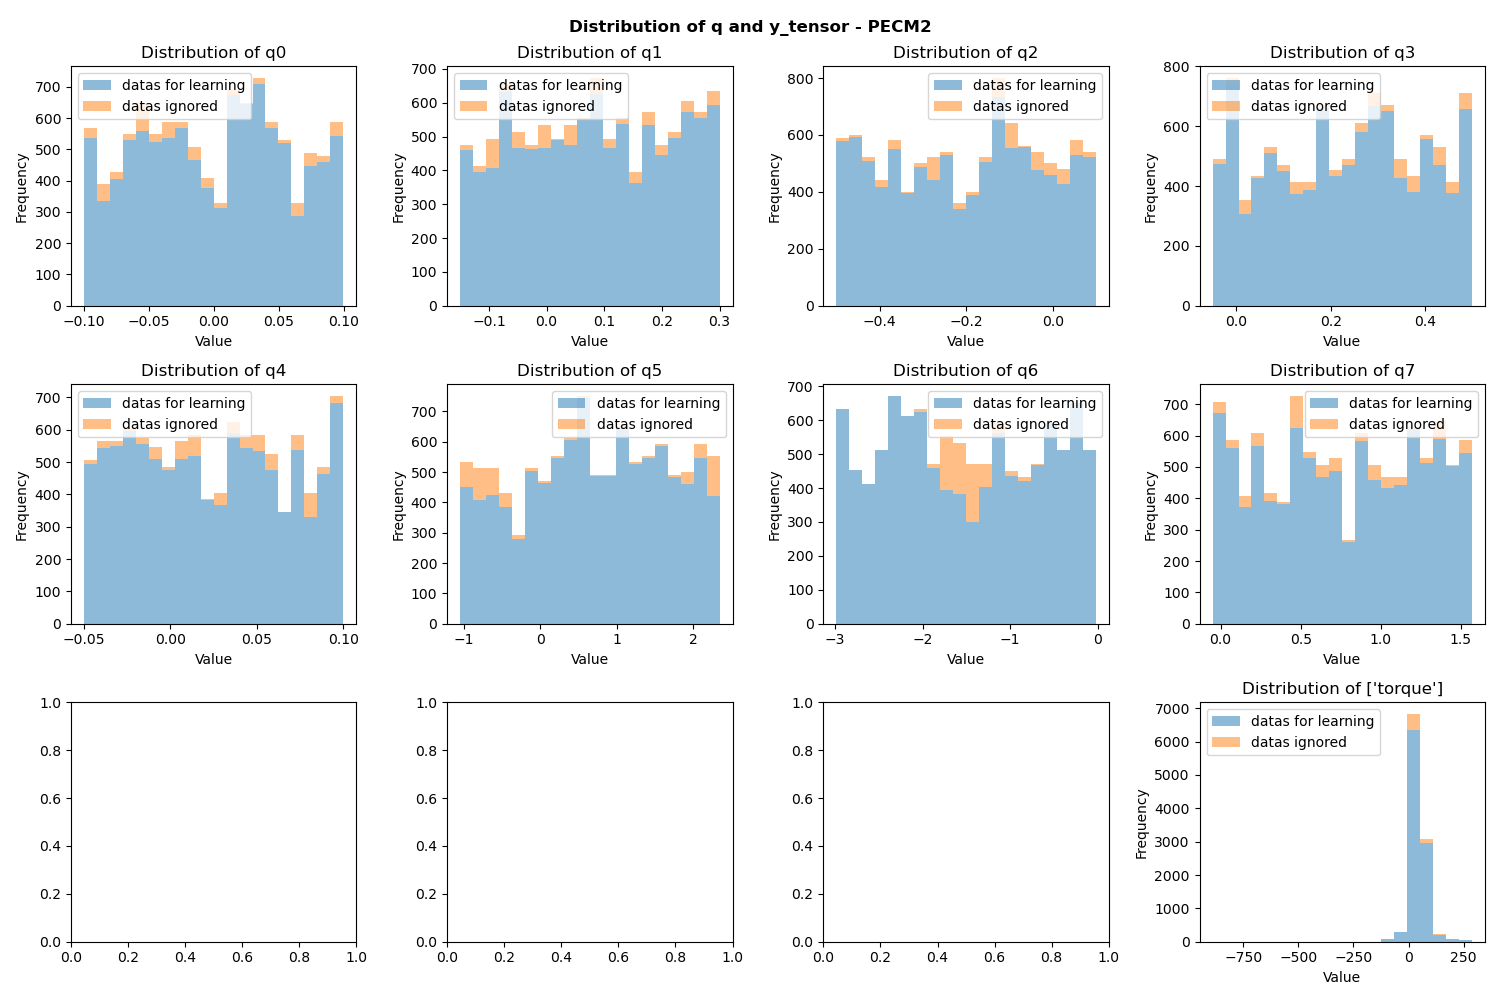
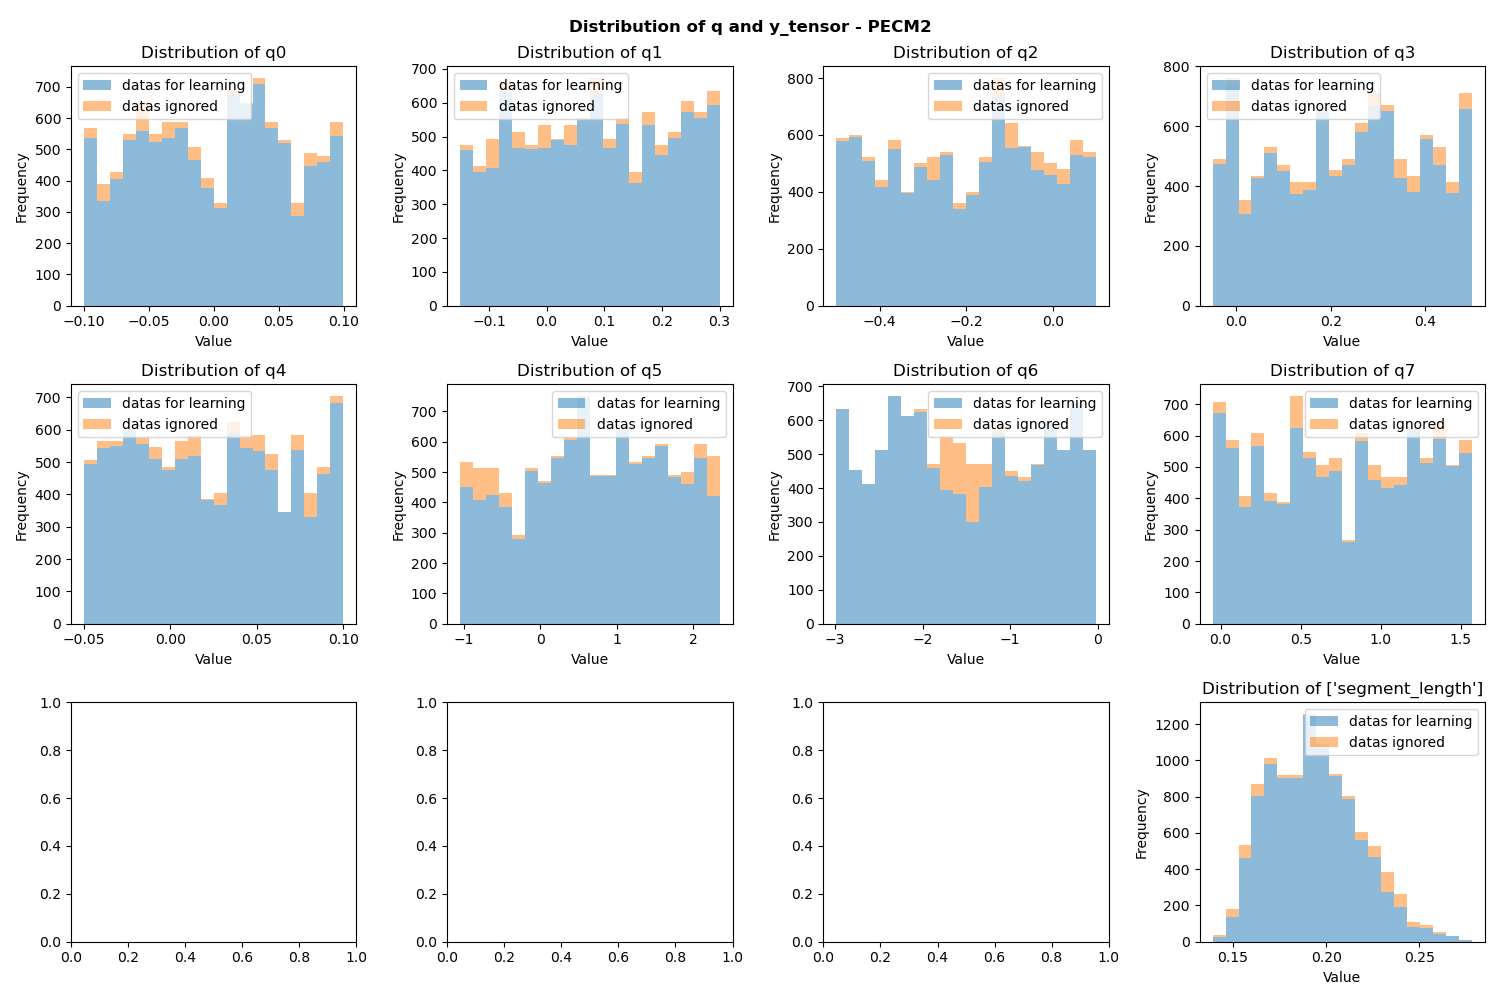
plus de commentaires

Changed region(s): [[0.7667, 0.682, 0.9813, 0.961]]

diff --git a/neural_networks/data_generation_ddl.py b/neural_networks/data_generation_ddl.py
@@ -7,11 +7,53 @@ from neural_networks.file_directory_operations import create_directory, create_a
 import copy
 import random
 from wrapping.muscles_length_jacobian import compute_dlmt_dq, plot_length_jacobian
-from wrapping.muscle_forces_and_torque import compute_fm, compute_torque, compute_fm_muscle_index
+from wrapping.muscle_forces_and_torque import compute_fm, compute_torque
 import os
 from neural_networks.other import compute_row_col, plot_mvt_discontinuities_in_red
 from neural_networks.ExcelBatchWriterWithNoise import ExcelBatchWriterWithNoise
 import pandas as pd
+
+def get_lines_to_remove(qs, segment_lengths, datas_ignored, f_sup_limits, num_points, plot_discontinuities):
+    """
+    Determine which data points to remove based on discontinuities, ignored data, and errors.
+
+    Args:
+        qs (list): List of data points to check for discontinuities.
+        segment_lengths (list): Lengths of segments for finding discontinuities.
+        datas_ignored (list): Boolean list indicating which data points are ignored.
+        f_sup_limits (list): Boolean list indicating limits where errors occur.
+        num_points (int): Total number of data points.
+        plot_discontinuities (bool): Flag to plot discontinuities for visualization.
+
+    Returns:
+        list: List of indices to be removed.
+    """
+    
+    # Initialize the list to store indices to be removed
+    to_remove = []
+    
+    # Verify if data is correct and find discontinuities
+    discontinuities = find_discontinuity(qs, segment_lengths, plot_discontinuities=plot_discontinuities)
+    for discontinuity in discontinuities:
+        min_idx, max_idx = data_to_remove_part(discontinuity, qs, num_points, range_size=3)
+        to_remove.extend(range(min_idx, max_idx + 1))
+    
+    # Find indices with errors in ignored data
+    positions = [n for n, ignored in enumerate(datas_ignored) if ignored]
+    if positions:
+        min_idx, max_idx = find_discontinuities_from_error_wrapping_range(positions, num_points, range_size=3)
+        to_remove.extend(range(min_idx, max_idx + 1))
+    
+    # Find indices with errors in f_sup_limits
+    positions_f_sup_limit = [n for n, ignored in enumerate(f_sup_limits) if ignored]
+    if positions_f_sup_limit:
+        min_idx, max_idx = find_discontinuities_from_error_wrapping_range(positions_f_sup_limit, num_points, range_size=0)
+        to_remove.extend(range(min_idx, max_idx + 1))
+    
+    # Remove duplicate indices and sort in descending order
+    to_remove = sorted(set(to_remove), reverse=True)
+    
+    return to_remove
 
 def plot_one_q_variation(muscle_selected, cylinders, model, q_fixed, i, filename, num_points = 100, plot_all = False, plot_limit = False, plot_cadran=False) :
    
@@ -67,8 +109,8 @@ def plot_one_q_variation(muscle_selected, cylinders, model, q_fixed, i, filename
       qs.append(qi)
       segment_lengths.append(segment_length)
       dlmt_dq = compute_dlmt_dq(model, q, cylinders, muscle_index, delta_qi = 1e-8)
-      muscle_force = compute_fm_muscle_index(model, muscle_index, q, qdot, alpha)
-      torque, _ = compute_torque(dlmt_dq, muscle_force)
+      muscle_force = compute_fm(model, q, qdot, alpha)[muscle_index]
+      torque, _ = compute_torque(dlmt_dq, muscle_force) 
       
       # add line
       writer.add_line(muscle_index, q, qdot, alpha, origin_muscle, insertion_muscle, segment_length, copy.deepcopy(dlmt_dq), muscle_force, torque)
@@ -84,7 +126,7 @@ def plot_one_q_variation(muscle_selected, cylinders, model, q_fixed, i, filename
    create_and_save_plot(f"{directory}", "one_q_variation.png")
    plt.show()
    
-   find_discontinuty(qs, segment_lengths, plot_discontinuities=True)
+   find_discontinuity(qs, segment_lengths, plot_discontinuities=True)
    
    writer.close()
    return None
@@ -151,7 +193,7 @@ def create_all_q_variation_files(muscle_selected, cylinders, model, q_fixed, fil
             qs.append(qi)
             segment_lengths.append(segment_length)
             dlmt_dq = compute_dlmt_dq(model, q, cylinders, muscle_index, delta_qi = 1e-8)
-            muscle_force = compute_fm_muscle_index(model, muscle_index, q, qdot, alpha)
+            muscle_force = compute_fm(model, q, qdot, alpha)[muscle_index]
             torque, _ = compute_torque(dlmt_dq, muscle_force)
             
             # add line
@@ -197,7 +239,7 @@ def plot_all_q_variation(model, q_fixed, y_label, filename="", file_path="") :
          qs.append(df.iloc[1:, q_index + 1].values)
          y.append(df.loc[1:, y_label].values)
          
-         discontinuities = find_discontinuty(qs[0], y[0], plot_discontinuities=False)
+         discontinuities = find_discontinuity(qs[0], y[0], plot_discontinuities=False)
          
          row = q_index // 3
          col = q_index % 3
@@ -256,14 +298,14 @@ def data_for_learning_without_discontinuites_ddl(muscle_selected, cylinders, mod
    min_vals_q = [row[0] for row in q_ranges]
    max_vals_q = [row[1] for row in q_ranges] 
 
-   num_line = writer.get_num_line()
+   num_line = writer.get_num_line() 
    while num_line < dataset_size : 
 
       # Generate a random q 
       q_ref = np.random.uniform(low=min_vals_q, high=max_vals_q)
-      
       i = random.randint(0, model.nbQ() - 1)
       
+      # to verify errors and dicontinuities
       qs = []
       segment_lengths = []
       datas_ignored = []
@@ -288,7 +330,7 @@ def data_for_learning_without_discontinuites_ddl(muscle_selected, cylinders, mod
          segment_length, data_ignored = compute_segment_length(model, cylinders, q, origin_muscle, insertion_muscle, 
                                                                plot_cylinder_3D, plot_cadran)  
          dlmt_dq = compute_dlmt_dq(model, q, cylinders, muscle_index, delta_qi = 1e-8)
-         muscle_force = compute_fm_muscle_index(model, muscle_index, q, qdot, alpha)
+         muscle_force = compute_fm(model, q, qdot, alpha)[muscle_index]
          torque, f_sup_limit = compute_torque(dlmt_dq, muscle_force)
          
          # keep informations to verify after if datas are correct
@@ -303,25 +345,9 @@ def data_for_learning_without_discontinuites_ddl(muscle_selected, cylinders, mod
       
       # Verify if datas are correct, no discontinuties, no errors
       # Find indexes with discontinuties
-      discontinuities = find_discontinuty(qs, segment_lengths, plot_discontinuities = plot_discontinuities)
-      for discontinuity in discontinuities : 
-         min, max = data_to_remove_part(discontinuity, qs, num_points, 3)
-         to_remove.extend(range(min, max + 1))
-      # Find error wrapping
-      positions = [n for n, ignored in enumerate(datas_ignored) if ignored]
-      if len(positions) != 0 : 
-         min, max = find_discontinuities_from_error_wrapping_range(positions, num_points, range = 3)
-         to_remove.extend(range(min, max + 1))
-      # Find error f_sup_limit 
-      positions_f_sup_limit = [n for n, ignored in enumerate(f_sup_limits) if ignored]
-      if len(positions_f_sup_limit) != 0 : 
-         min, max = find_discontinuities_from_error_wrapping_range(positions_f_sup_limit, num_points, range = 0)
-         to_remove.extend(range(min, max + 1))
+      to_remove = get_lines_to_remove(qs, segment_lengths, datas_ignored, f_sup_limits, num_points, plot_discontinuities)
       
-      # Sort to keep only one occurancy of each indexes
-      to_remove = sorted(set(to_remove), reverse=True)
-      
-      if len(to_remove) != 0 and plot_graph : 
+      if plot_graph and len(to_remove) != 0 : 
          # To check points removed (in red)
          plot_mvt_discontinuities_in_red(i, qs, segment_lengths, to_remove)
       
@@ -409,3 +435,5 @@ def data_for_learning_with_noise(model, excel_file_path, dataset_size_noise, bat
    writer = ExcelBatchWriterWithNoise(f"{excel_file_path.replace(".xlsx", "")}_with_noise.xlsx", q_ranges_names_with_dofs,
                                       batch_size, noise_std_dev)
    writer.augment_data_with_noise_batch(dataset_size_noise)
+
+

diff --git a/run/muscle_geometry.py b/run/muscle_geometry.py
@@ -95,8 +95,8 @@ q_fixed = np.array([0.0 for k in range (10)])
 
 # Generate datas : 
 #----------------
-data_generation_muscles(muscles_selected, cylinders, model_biorbd, 100, 0, "hyterg", num_points = 20, 
-                        plot_cylinder_3D=True, plot_discontinuities = True, plot_cadran = True, plot_graph=True)
+# data_generation_muscles(muscles_selected, cylinders, model_biorbd, 100, 0, "hyterg", num_points = 20, 
+#                         plot_cylinder_3D=True, plot_discontinuities = True, plot_cadran = True, plot_graph=True)
 
    
 # -----------------------------------------------------------------
@@ -129,9 +129,9 @@ cylinder_2 = Cylinder.from_points(1,-1, c21, c22)
 # exit(0)
 
 # # pour voir pyorerun
-model_path = "/home/lim/Documents/kloe/shoulder/run/models/Wu_DeGroote.bioMod"
-animation = LiveModelAnimation(model_path, with_q_charts=True)
-animation.rerun()
+# model_path = "/home/lim/Documents/kloe/shoulder/run/models/Wu_DeGroote.bioMod"
+# animation = LiveModelAnimation(model_path, with_q_charts=True)
+# animation.rerun()
 
 # -----------------------------------------------------------------
 
@@ -208,9 +208,9 @@ print(Hyperparameter_essai1)
 
 # one model per muscle !
 
-main_superised_learning(Hyperparameter_essai1, model_biorbd.nbQ(), num_datas_for_dataset, folder_name="data_generation_all", 
-                        muscle_name = "PECM2", retrain=False, file_path=Hyperparameter_essai1.model_name, with_noise = False, 
-                        plot_preparation=True, plot=True, save=True) 
+# main_superised_learning(Hyperparameter_essai1, model_biorbd.nbQ(), num_datas_for_dataset, folder_name="data_generation_all", 
+#                         muscle_name = "PECM2", retrain=False, file_path=Hyperparameter_essai1.model_name, with_noise = False, 
+#                         plot_preparation=True, plot=True, save=True) 
 
 # list_simulation, best_hyperparameters_loss \
 # = find_best_hyperparameters(Hyperparameter_essai1, model_biorbd.nbQ(), num_datas_for_dataset, "data_generation_datas_with_tau", 
@@ -219,10 +219,9 @@ main_superised_learning(Hyperparameter_essai1, model_biorbd.nbQ(), num_datas_for
 # plot_results_try_hyperparams("data_generation_datas_with_tau/PECM2/_Model/dlmt_dq_64_1c_all",
 #                                  "execution_time_train", "val_loss")
 
-# plot_results_try_hyperparams_comparaison(["data_generation_datas_with_tau/PECM2/_Model/train_torque_all_1c", 
-#                                           "data_generation_datas_with_tau/PECM2/_Model/train_torque_all_2c", 
-#                                           "data_generation_datas_with_tau/PECM2/_Model/train_torque_all_3c"], 
-#                                          "execution_time", "val_loss", "data_generation_datas_with_tau/PECM2/_Model")
+plot_results_try_hyperparams_comparaison(["data_generation_datas_with_tau/PECM2/_Model/dlmt_dq_64_1c", 
+                                          "data_generation_datas_with_tau/PECM2/_Model/dlmt_dq_64_2c"], 
+                                         "execution_time_use_saved_model", "val_loss", "data_generation_datas_with_tau/PECM2/_Model")
 
 # plot_results_try_hyperparams_comparaison(["data_generation_datas_with_tau/PECM2/_Model/train_torque_2c_64", 
 #                                           "data_generation_datas_with_tau/PECM2/_Model/train_torque_2c_64_2"], 

diff --git a/wrapping/algorithm.py b/wrapping/algorithm.py
@@ -4,7 +4,7 @@ from wrapping.step_3 import determine_if_tangent_points_inactive_single_cylinder
 # from wrapping.step_4 import segment_length_single_cylinder
 from wrapping.plot_cylinder import plot_double_cylinder_obstacle
 import numpy as np
-from wrapping.paspropre import determine_if_needed_change_side
+from wrapping.cadran import determine_if_needed_change_side
 from wrapping.plot_cylinder import plot_cadran_double_cylinder, plot_cadran_single_cylinder
 
 
@@ -113,14 +113,15 @@ def double_cylinder_obstacle_set_algorithm(P, S, Cylinder_U, Cylinder_V, plot_ca
    # ------
    # Step 2
    # ------
-   
    Q, G, H, T = find_tangent_points_iterative_method(P, S, P_U_cylinder_frame,P_V_cylinder_frame, S_U_cylinder_frame, S_V_cylinder_frame, r_V, r_U,  Cylinder_U.matrix, Cylinder_V.matrix)
    
    H_T_inactive = determine_if_tangent_points_inactive_single_cylinder(H, T, r_V)
 
    # if H_T_inactive and determine_if_needed_change_side(S_V_cylinder_frame, np.array([0.0246330366, -0.0069265376, -0.0000168612])): 
    if H_T_inactive and determine_if_needed_change_side(S_V_cylinder_frame, np.array([0.0179188682, -0.0181428819, 0.02])) == True: 
-      print("yop")
+      # If there is no wrapping on the second cylinder
+      # but there should be, switch sides and try again.
+      # BIG WARNING: The point selected for the cadran is arbitrary! It cannot be generalized.
       Cylinder_V.change_side()
       r_V = Cylinder_V.radius * Cylinder_V.side
       Q, G, H, T = find_tangent_points_iterative_method(P, S, P_U_cylinder_frame,P_V_cylinder_frame, S_U_cylinder_frame, S_V_cylinder_frame, r_V, r_U,  Cylinder_U.matrix, Cylinder_V.matrix)
@@ -159,7 +160,7 @@ def double_cylinder_obstacle_set_algorithm(P, S, Cylinder_U, Cylinder_V, plot_ca
    if H_T_inactive==True :
       Q, G = find_tangent_points(P_U_cylinder_frame, S_U_cylinder_frame, r_U)
       Q_G_inactive = determine_if_tangent_points_inactive_single_cylinder(Q, G, r_U)
-      # security to avoid bug in step 4, don't worry, this data will be ignored because of tangent point in the cylinder
+      # security to avoid bug in step 4, don't worry, this data will be ignored because of tangent point inside the cylinder
       if np.isnan(Q[-1]) or np.isnan(G[-1]) : 
          Q[-1] = 0.0
          G[-1] = 0.0
@@ -170,7 +171,7 @@ def double_cylinder_obstacle_set_algorithm(P, S, Cylinder_U, Cylinder_V, plot_ca
    elif Q_G_inactive==True :
       H, T = find_tangent_points(P_V_cylinder_frame, S_V_cylinder_frame, r_V)
       H_T_inactive = determine_if_tangent_points_inactive_single_cylinder(H, T, r_V)
-      # security to avoid bug in step 4, don't worry, this data will be ignored because of tangent point in the cylinder
+      # security to avoid bug in step 4, don't worry, this data will be ignored because of tangent point inside the cylinder
       if np.isnan(Q[-1]) or np.isnan(G[-1]) : 
          Q[-1] = 0.0
          G[-1] = 0.0

diff --git a/wrapping/step_2.py b/wrapping/step_2.py
@@ -128,6 +128,14 @@ def point_tangent_on_surface_cylinder(p1, p2, p3, p4, radius_U, radius_V, epsilo
 def find_tangent_points_iterative_method(P, S, P_U_cylinder_frame,P_V_cylinder_frame, S_U_cylinder_frame, S_V_cylinder_frame, r_V, r_U, matrix_U, matrix_V) :
 
   """Compute xyz coordinates of Q, G, H and T using iterative method
+  
+  This is a correction to the original method by Garner (2010). 
+  The original method aims to find the coordinates of the tangent point to achieve the smallest possible distance GH. 
+  However, in some cases, this approach does not always return the smallest value for lmt.
+  Because "the smallest possible distance GH" ==X==> "the smallest possible distance lmt"
+
+  Now, the iteration stops if NaN values are detected (indicating that no wrapping is needed or possible) 
+  and if lmt starts to increase instead of decreasing.
 
   Args
   - P_U_cylinder_frame : array 3*1 position of the first point in U cylinder frame
@@ -150,7 +158,7 @@ def find_tangent_points_iterative_method(P, S, P_U_cylinder_frame,P_V_cylinder_f
   Q1_G1_inactive = False
   H1_T1_inactive = False
   ecart_length = 1
-  segment_length_1 = 100
+  segment_length_1 = 1000
 
   while ecart_length > 0 :
       Q0, G0 = Q1, G1
@@ -169,7 +177,9 @@ def find_tangent_points_iterative_method(P, S, P_U_cylinder_frame,P_V_cylinder_f
       if Q1_G1_inactive or np.isnan(np.array(Q1)).any() or np.isnan(np.array(G1)).any():
         break 
 
-      segment_length_1 = segment_length_double_cylinder(False, False, P, S, P_U_cylinder_frame, P_V_cylinder_frame, S_U_cylinder_frame, S_V_cylinder_frame, Q1, G1, H1, T1, r_U, r_V, matrix_U, matrix_V)
+      segment_length_1 = segment_length_double_cylinder(False, False, P, S, P_U_cylinder_frame, P_V_cylinder_frame, 
+                                                        S_U_cylinder_frame, S_V_cylinder_frame, Q1, G1, H1, T1, r_U, 
+                                                        r_V, matrix_U, matrix_V)
       ecart_length = segment_length_0 - segment_length_1
   
   Q0, G0, H0, T0 = point_tangent_on_surface_cylinder(Q0, G0, H0, T0, abs(r_U), abs(r_V), epsilon=abs(r_U)/10)
@@ -265,7 +275,8 @@ def segment_length_double_cylinder(Q_G_inactive, H_T_inactive, P, S, P_U_cylinde
   else: # double cylinder
     G_H_length = norm(switch_frame(H, matrix_V) - switch_frame(G, matrix_U))
 
-    segment_length = norm(Q - np.array(P_U_cylinder_frame)) + Q_G_length + G_H_length + H_T_length + norm(np.array(S_V_cylinder_frame) - T)
+    segment_length = norm(Q - np.array(P_U_cylinder_frame)) + Q_G_length + G_H_length + H_T_length \
+    + norm(np.array(S_V_cylinder_frame) - T)
 
   return segment_length
  

diff --git a/neural_networks/data_generation.py b/neural_networks/data_generation.py
@@ -173,7 +173,7 @@ def data_for_learning_plot (muscle_selected, cylinders, model, q_ranges_muscle, 
    plt.grid(True)
    plt.show()
    
-   find_discontinuty(qs, segment_lengths, plot_discontinuities=True)
+   find_discontinuity(qs, segment_lengths, plot_discontinuities=True)
    
    writer.close()
    return None
@@ -244,7 +244,7 @@ def data_for_learning_without_discontinuites(muscle_selected, cylinders, model, 
             lines.append([muscle_index, q, origin_muscle, insertion_muscle, segment_length])
          
          # Find indexes with discontinuties
-         discontinuities = find_discontinuty(qs, segment_lengths, plot_discontinuities = plot_discontinuities)
+         discontinuities = find_discontinuity(qs, segment_lengths, plot_discontinuities = plot_discontinuities)
          for discontinuity in discontinuities : 
             # min, max = data_to_remove_range(discontinuity, num_points, 5)
             min, max = data_to_remove_part(discontinuity, qs, num_points, 5)

diff --git a/neural_networks/discontinuities.py b/neural_networks/discontinuities.py
@@ -42,7 +42,7 @@ def find_discontinuities_from_error_wrapping_range(positions, size, range = 5) :
     return [min_index, max_index]
 
 
-def find_discontinuty(x, y, epsilon = 0.002, plot_discontinuities = False) : 
+def find_discontinuity(x, y, epsilon = 0.002, plot_discontinuities = False) : 
     """Find all discontinuities of a curve with distance beetween points
     Args : 
     - x : [float], x axis (qi)

diff --git a/neural_networks/plot_pareto_front.py b/neural_networks/plot_pareto_front.py
@@ -133,5 +133,5 @@ def plot_results_try_hyperparams_comparaison(dir_paths, x_info, y_info, save_pat
     plt.title(f"{x_info} vs {y_info}", fontweight='bold')
     plt.grid(True)
     plt.legend()
-    create_and_save_plot(f"{save_path}", f"{file_names[0]} vs {file_names[1]} vs {file_names[2]}.png")
+    create_and_save_plot(f"{save_path}", f"{file_names[0]} vs {file_names[1]}.png")
     plt.show()

diff --git a/neural_networks/functions_data_generation.py b/neural_networks/functions_data_generation.py
@@ -143,7 +143,7 @@ def compute_segment_length(model, cylinders, q, origin_muscle, insertion_muscle,
    """Compute segment length
    
    Args : 
-   - model : model
+   - model : model biorbd
    - cylinders : List of muscle's cylinder (0, 1 or 2 cylinders)
    - q : array 4*2, q randomly generated
    - origin_muscle : array 1*3, coordinate of the origin point
